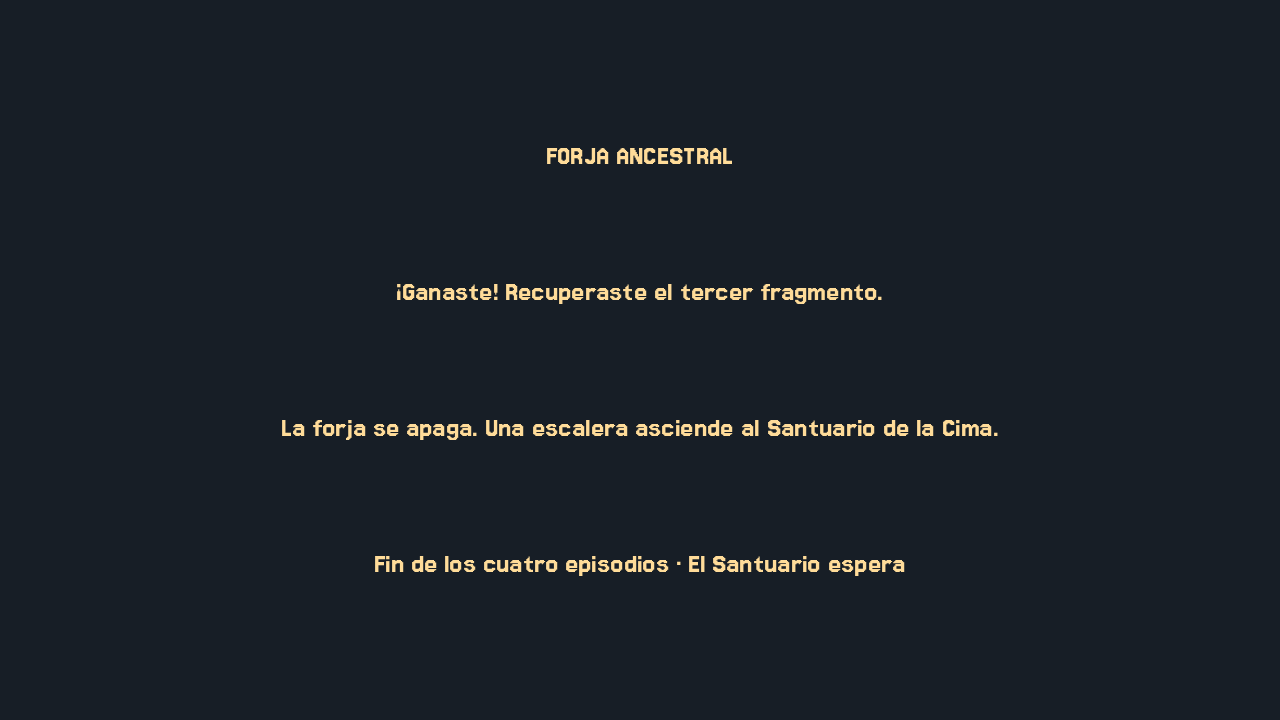
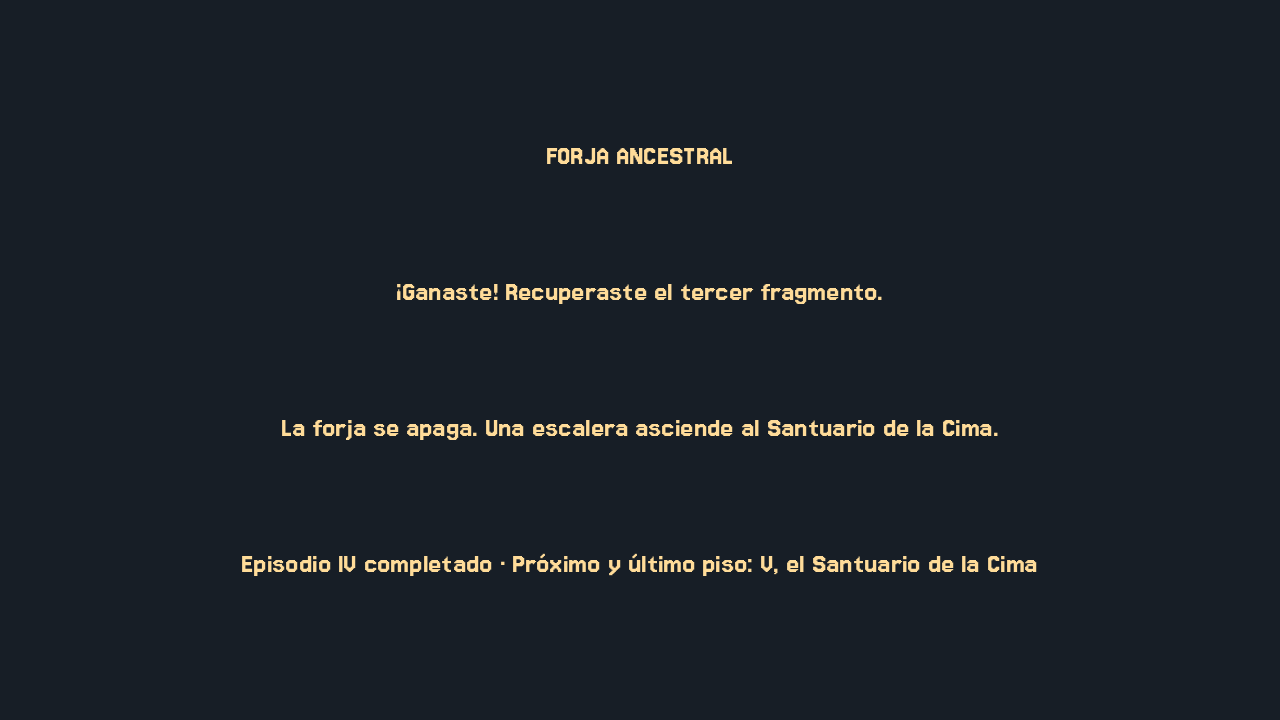
Conecta la historia de la torre y anima la víbora lunar

Changed region(s): [[0.1875, 0.7639, 0.8125, 0.7944]]

diff --git a/README.md b/README.md
@@ -1,6 +1,6 @@
 # Ecos del Orbe · Episodios I–IV
 
-Acompaña a Liceo desde el Vestíbulo hasta la Forja. Despierta el orbe, esquiva las patrullas y reúne tres fragmentos para abrir el camino al Santuario.
+Acompaña a Liceo desde el Vestíbulo hasta la Forja. Al romper el orbe, Liceo descubre una torre atrapada en la misma mañana. Habla con la Farolera, el Guardián del cauce y el Herrero mientras reúne los tres fragmentos. La Forja cierra el episodio IV. El Santuario de la Cima es el quinto y último piso previsto.
 
 ## Jugar y editar
 
@@ -14,7 +14,7 @@ Para integrar la versión GitHub copia scenes/quests/story_quests/forja_jenny a 
 
 ## Arte y prueba
 
-Los archivos fuente de Aseprite y las animaciones importadas de Liceo están en episodios/arte. Las runas tienen notas y efectos animados propios.
+Los archivos fuente de Aseprite y las animaciones importadas de Liceo están en episodios/arte. La víbora lunar usa los cuatro fotogramas de tus archivos de Aseprite. Las runas tienen notas y efectos animados propios.
 La prueba automatizada en Godot recorrió las cuatro escenas, verificó la vuelta a la entrada al tocar una puerta, la activación de las losas, los dos núcleos, las runas, la insignia, los tres fragmentos y el final. Queda por probar con compañeros si el aviso de cada puerta da tiempo suficiente. Si cuesta distinguirlo, se alargará el aviso ámbar.
 
 ![Los cuatro episodios](media/cuatro-episodios.png)
